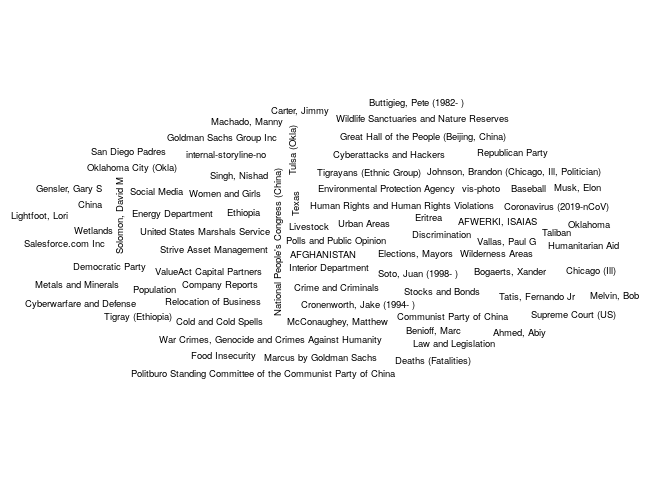
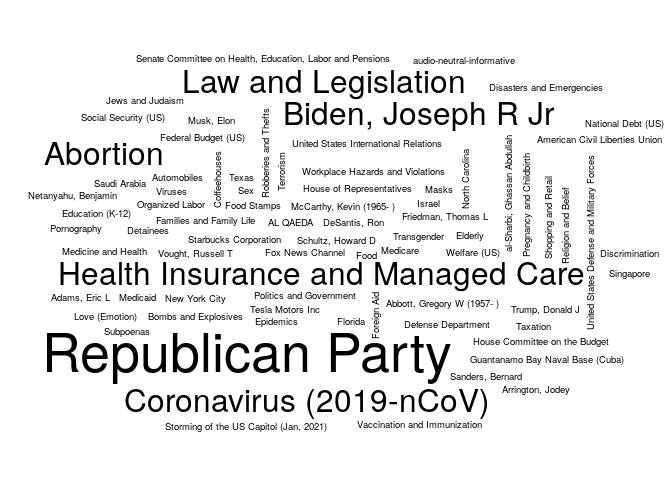
Updating the NYT report

Changed region(s): [[0.0, 0.0938, 1.0, 0.9062]]

diff --git a/03-nytimes/README.md b/03-nytimes/README.md
@@ -5,7 +5,7 @@ The following is an example of how to use the [NYTimes
 API](https://developer.nytimes.com/) to get a list of articles related
 to a particular term. Here we are searching articles that include the
 term `"health"`, and that were published up to seven days ago since
-2023-03-06.
+2023-03-13.
 
 ``` r
 # Preparing a function to use the GET method with the NYTimes API
@@ -85,23 +85,23 @@ knitr::kable(tab, row.names = FALSE)
 
 | Keyword                               | \# Articles |
 |:--------------------------------------|------------:|
-| Economic Conditions and Trends        |          30 |
-| Politics and Government               |          30 |
-| United States Politics and Government |          20 |
-| AFGHANISTAN                           |          10 |
-| AFWERKI, ISAIAS                       |          10 |
-| Ahmed, Abiy                           |          10 |
-| Baseball                              |          10 |
-| Benioff, Marc                         |          10 |
-| Bogaerts, Xander                      |          10 |
-| Buttigieg, Pete (1982- )              |          10 |
-| Carter, Jimmy                         |          10 |
-| Chicago (Ill)                         |          10 |
-| China                                 |          10 |
-| Cold and Cold Spells                  |          10 |
-| Communist Party of China              |          10 |
-| Company Reports                       |          10 |
-| Coronavirus (2019-nCoV)               |          10 |
-| Crime and Criminals                   |          10 |
-| Cronenworth, Jake (1994- )            |          10 |
-| Cyberattacks and Hackers              |          10 |
+| United States Politics and Government |          40 |
+| Republican Party                      |          30 |
+| Abortion                              |          20 |
+| Biden, Joseph R Jr                    |          20 |
+| Coronavirus (2019-nCoV)               |          20 |
+| Health Insurance and Managed Care     |          20 |
+| Law and Legislation                   |          20 |
+| Abbott, Gregory W (1957- )            |          10 |
+| Adams, Eric L                         |          10 |
+| AL QAEDA                              |          10 |
+| al-Sharbi, Ghassan Abdullah           |          10 |
+| American Civil Liberties Union        |          10 |
+| Arrington, Jodey                      |          10 |
+| audio-neutral-informative             |          10 |
+| Automobiles                           |          10 |
+| Bombs and Explosives                  |          10 |
+| Coffeehouses                          |          10 |
+| Defense Department                    |          10 |
+| DeSantis, Ron                         |          10 |
+| Detainees                             |          10 |
